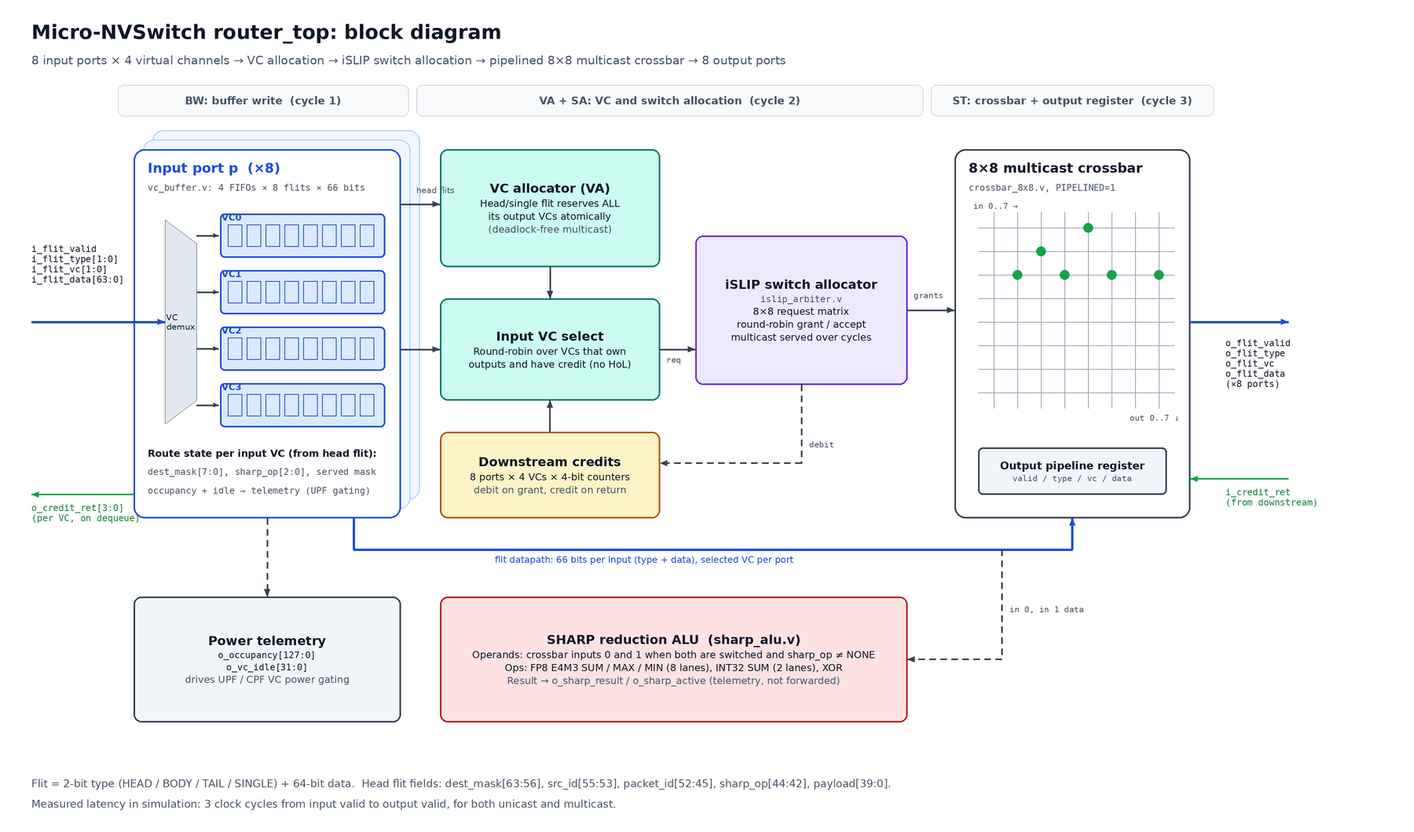
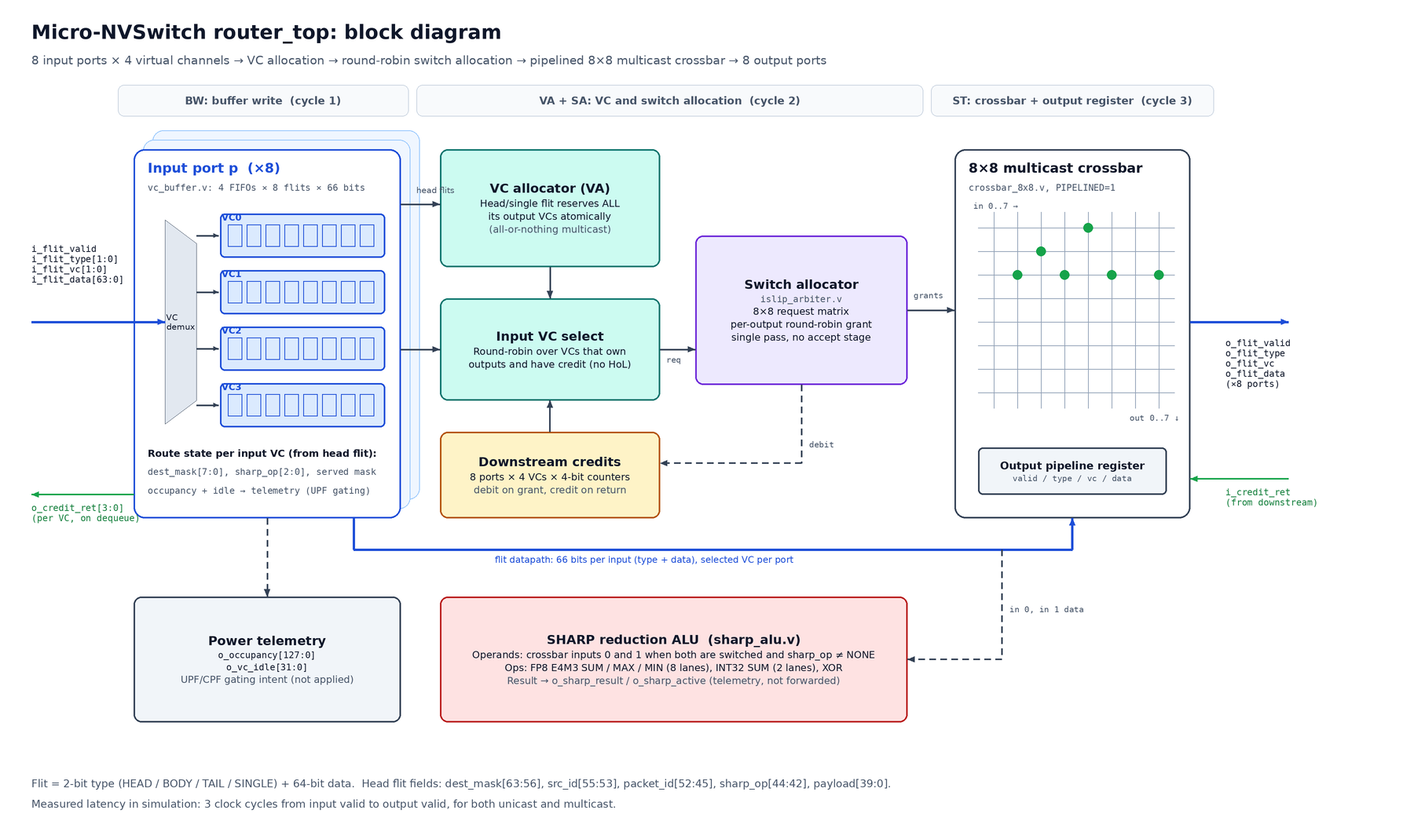
README: accuracy and writing audit
- Describe islip_arbiter.v as a single-pass output round-robin allocator
  (no accept stage), not full iSLIP
- State SHARP ALU scope: fixed ports 0/1, telemetry-only result,
  simplified E4M3 adder; note no test checks the numeric result
- Flag UPF control expression and VC0-only gating; UPF not applied
- Drop unsupported comparisons, badges and the GDSII claim in the title
- Add references (iSLIP, SHArP, FP8, ASAP7, RUDY, Dally/Towles) and
  NVIDIA trademark / non-affiliation note
- Fix diagram labels to match the RTL

diff --git a/README.md b/README.md
@@ -1,108 +1,103 @@
-# Micro-NVSwitch: 8x8 NoC Router ASIC with In-Network FP8 Reduction (Verilog RTL-to-GDSII Flow, ASAP7 7nm)
+# Micro-NVSwitch: 8x8 NoC Router with In-Network FP8 Reduction (Verilog RTL, ASAP7 7nm Layout)
 
-[![Release](https://img.shields.io/github/v/release/Srijit6/micro-nvswitch-noc-router)](https://github.com/Srijit6/micro-nvswitch-noc-router/releases)
-[![Tests](https://img.shields.io/badge/cocotb-14%2F14%20passing-brightgreen.svg)](#4-verification)
-[![Lint](https://img.shields.io/badge/Verilator%20lint-clean-blue.svg)](rtl/)
-[![PDK](https://img.shields.io/badge/PDK-ASAP7%207nm-purple.svg)](#6-physical-design)
+Micro-NVSwitch is an 8-port network-on-chip router written in Verilog and implemented on the ASAP7 7nm predictive PDK with Yosys, OpenROAD and OpenSTA. The design is loosely modelled on the role an NVSwitch plays in a GPU fabric. It routes unicast and multicast packets between eight ports, and it has a small reduction ALU that can combine the payloads of two packets as they cross the switch, in the spirit of Mellanox/NVIDIA SHARP [2].
 
-**Micro-NVSwitch is an open-source 8x8 network-on-chip (NoC) router, inspired by NVIDIA NVSwitch, written in synthesizable Verilog RTL and implemented on the ASAP7 7nm FinFET PDK with Yosys, OpenROAD and OpenSTA.** Unlike most academic NoC routers, it does more than move packets: a SHARP-style ALU reduces FP8 (E4M3) vectors inside the switch, the in-network All-Reduce used in GPU fabrics. It also has 4 virtual channels per port, credit-based flow control, iSLIP switch allocation and hardware multicast.
+The point of putting a reduction unit in a switch is that an All-Reduce then needs fewer trips through the network: partial sums are combined in the fabric instead of at every endpoint. This repository implements a one-switch, two-operand version of that idea. It is a study of the router microarchitecture and of what the open-source ASAP7 flow can do with it, not a model of a production NVSwitch.
 
-| | |
-|---|---|
-| **RTL** | Verilog-2001, 5 modules + package, Verilator lint-clean |
-| **Verification** | 14/14 cocotb tests (incl. random traffic with scoreboard), 6/6 Icarus testbench checks |
-| **Synthesis** | Yosys → ASAP7 RVT: 92,890 cells, 14,192 µm² |
-| **Physical design** | OpenROAD floorplan → placement → CTS → global route, 185.6 µm × 185.6 µm die |
-| **Sign-off** | OpenSTA at 2.5 ns: setup met (+74 ps), 142 mW. Hold, detailed routing and GDSII still open ([details](#limitations)) |
+| Stage | Status | Result |
+|---|---|---|
+| RTL | done | 5 modules + 1 package in `rtl/`, Verilator lint clean |
+| Simulation | done | 14/14 cocotb tests, 6/6 Icarus testbench checks |
+| Synthesis | done | Yosys 0.46 → ASAP7 RVT: 92,890 cells, 14,192 µm² |
+| Floorplan, placement, CTS, global route | done | OpenROAD, 185.6 µm × 185.6 µm die, 0 routing overflow |
+| Static timing and power | done, estimated parasitics | 2.5 ns clock: setup +74 ps, hold −15 ps (fails), 142 mW |
+| Detailed route, GDSII, DRC/LVS | scripted, not run | [Limitations](#limitations) |
 
----
+## Architecture
 
-## 1. Architecture
+![Block diagram of router_top. Each of 8 input ports has a VC demux and four 8-entry FIFOs. Head flits go to a VC allocator; an input VC selector, gated by downstream credit counters, builds an 8x8 request matrix for a round-robin switch allocator. Grants steer an 8x8 multicast crossbar with an output register. A SHARP ALU taps crossbar inputs 0 and 1 and drives telemetry outputs; VC occupancy and idle flags are exported as telemetry.](docs/images/architecture.png)
 
-![Block diagram of router_top: 8 input ports each with 4 VC FIFOs feed a VC allocator and input VC selector, which drive an iSLIP switch allocator; grants steer a pipelined 8x8 multicast crossbar to 8 output ports. Downstream credit counters gate requests, a SHARP ALU taps crossbar inputs 0 and 1, and VC occupancy feeds power telemetry.](docs/images/architecture.png)
+*Figure 1. `router_top` block diagram. A single-flit packet takes three cycles from `i_flit_valid` to `o_flit_valid`.*
 
-*Figure 1. `router_top` block diagram. A flit takes three cycles: buffer write, VC + switch allocation, then crossbar traversal into the output register.*
+All parameters come from `rtl/include/router_pkg.v`: 8 ports, 4 virtual channels (VCs) per port, 8-flit buffers and 64-bit flits. A flit carries a 2-bit type (HEAD, BODY, TAIL or SINGLE) alongside its data. The head flit holds an 8-bit destination mask in bits [63:56], so any subset of outputs can be addressed and multicast needs no separate packet format. It also holds the source port, an 8-bit packet ID and a 3-bit SHARP opcode.
 
-- **8 ports × 4 virtual channels:** each VC is an 8-flit FIFO of 66-bit flits (2-bit type + 64-bit data), so a blocked packet on one VC does not stall the others (no head-of-line blocking).
-- **Credit-based flow control:** 4-bit per-VC credit counters on every output. A flit is only sent when the downstream buffer has space, so nothing is dropped.
-- **Atomic multicast VC allocation:** a head flit reserves *all* of its destination output VCs in one cycle or none of them. This keeps multicast wormhole routing deadlock-free.
-- **iSLIP switch allocator:** round-robin request/grant/accept on an 8×8 request matrix. Multicast flits can be served over several cycles.
-- **SHARP reduction ALU:** element-wise FP8 SUM/MAX/MIN (8 lanes), INT32 SUM (2 lanes) and XOR on the flits switched from inputs 0 and 1.
-- **Power telemetry:** per-VC occupancy and idle flags drive the UPF 3.0 / CPF power-gating intent in `constraints/`.
+**Input buffering (`vc_buffer.v`).** The incoming flit is written to one of four FIFOs selected by `i_flit_vc`. Each entry stores 66 bits (type + data). When a flit leaves, the FIFO pulses its bit of `o_credit_ret`, which tells the upstream sender it may send one more flit on that VC.
 
-Full specification: [`docs/microarchitecture.md`](docs/microarchitecture.md).
+**VC allocation (`router_top.v`).** When a HEAD or SINGLE flit reaches the front of a FIFO, the allocator grants it only if every output VC named in its destination mask is free, and then locks all of them in the same cycle. That output VC stays locked until the packet's TAIL leaves, so packets on the same output VC never interleave. The all-or-nothing grant is meant to stop two multicast packets from each holding part of the other's destination set.
 
-## 2. Design Methodology
+**Switch allocation (`islip_arbiter.v`).** Each input offers one VC per cycle, chosen round-robin among VCs that own their output VCs and have at least one destination with a downstream credit. These offers form a 64-bit request matrix. Each output then grants one requesting input using its own round-robin pointer. Despite the file name, this is a single-pass output-side arbiter, not the full iSLIP algorithm [1]: there is no input accept stage, and one input can win several outputs in the same cycle. That is what lets a multicast flit reach all its destinations at once when they are free. Destinations that are not granted are tracked in a per-VC `served` mask and retried, and the flit is dequeued only after all of them have received it.
 
-![Flowchart: specification, RTL, Verilator lint, simulation, Yosys synthesis, then OpenROAD floorplan, placement, CTS, global routing and OpenSTA timing/power, each with its measured result. A red feedback loop shows the 800 ps target failing and being relaxed to 2.5 ns. Dashed boxes mark detailed routing, GDSII and the commercial flow as not yet run.](docs/images/design_flow.png)
+**Crossbar and credits (`crossbar_8x8.v`).** Grants select the source for each output mux, and `PIPELINED=1` adds an output register. The router keeps a 4-bit credit counter for each output VC. The counter is decremented when a flit is granted and incremented on `i_credit_ret`. A VC with no credit is excluded from the request matrix, so the router never sends a flit the downstream buffer cannot hold.
 
-*Figure 2. Flow from specification to sign-off, with the measured result of each step. Dashed steps are scripted but not yet run.*
+**Reduction ALU (`sharp_alu.v`).** If input port 0 carries a packet with a non-zero `sharp_op` and input port 1 is switching a flit in the same cycle, the ALU combines the two 64-bit payloads. It supports FP8 E4M3 [3] SUM, MAX and MIN on 8 lanes, INT32 SUM on 2 lanes, and XOR. The result appears on `o_sharp_result` and `o_sharp_active` one cycle later. It is not written back into a packet, and the fixed operand ports and the simplified FP8 adder are listed under [Limitations](#limitations).
 
-## 3. Quick Start
+**Telemetry and power intent.** `o_occupancy` and `o_vc_idle` export the fill level of each FIFO. `constraints/power.upf` (UPF) and `power.cpf` (CPF) describe one switchable power domain per input port. They are not used by the OpenROAD flow and have not been checked with power-aware simulation.
+
+## Design Flow
+
+![Flowchart from specification through RTL, Verilator lint, simulation, Yosys synthesis, OpenROAD floorplan, placement, CTS and global routing, to OpenSTA timing and power, each annotated with its result. A red loop shows the 800 ps clock target failing and being relaxed to 2.5 ns. Dashed boxes show detailed routing, GDSII, extracted-parasitic STA and the commercial flow as not yet run.](docs/images/design_flow.png)
+
+*Figure 2. Flow used in this repository. Dashed steps have scripts but no results yet.*
 
 ```bash
-make lint      # Verilator lint
-make sim       # Icarus Verilog self-checking testbench
-make cocotb    # cocotb regression (14 tests)
-make test      # sim + cocotb
+make lint      # Verilator --lint-only -Wall
+make sim       # Icarus Verilog testbench, dv/common/tb_router_top.v
+make cocotb    # cocotb suite, dv/cocotb/tests/
 ```
 
-The ASAP7 flow runs in the `ghcr.io/efabless/openlane2:2.3.10` container, so the host only needs Docker and the ASAP7 platform files:
+The ASAP7 flow runs inside the `ghcr.io/efabless/openlane2:2.3.10` container. It needs Docker and the ASAP7 platform directory from OpenROAD-flow-scripts, which `flow/run_flow.sh` expects at `~/pdks/orfs/flow/platforms/asap7` (override with `PLATFORM_HOST`):
 
 ```bash
 git clone --depth 1 --filter=blob:none --sparse \
     https://github.com/The-OpenROAD-Project/OpenROAD-flow-scripts.git ~/pdks/orfs
 git -C ~/pdks/orfs sparse-checkout set flow/platforms/asap7
 
-flow/run_flow.sh synth floorplan place cts groute sta-groute gui   # low-memory path
-flow/run_flow.sh route finish sta gui                              # needs more RAM
+flow/run_flow.sh synth floorplan place cts groute sta-groute   # results below
+flow/run_flow.sh route finish sta                              # detailed route onwards, not yet run to completion
 ```
 
-Each stage saves a checkpoint in `build/odb/`, so later stages can be rerun on their own. Set `PLATFORM_HOST` if ASAP7 lives elsewhere.
+Every stage writes a checkpoint to `build/odb/`, so a stage can be rerun without repeating the earlier ones. Scripts for Cadence Genus, Synopsys DC and Cadence Innovus are in `synth/` and `pnr/innovus/`. They have not been run.
 
-## 4. Verification
+## Verification
 
-| Suite | Tests | Result |
+The cocotb suite is the main regression. `test_router.py` covers reset and credit initialisation, unicast, multi-flit wormhole packets, multicast, head-of-line blocking across VCs, lossless backpressure and FP8 summation. `test_router_fixes.py` holds the regression tests for bugs fixed in the RTL: body flits staying with their own header, no interleaving on an output VC, partially granted multicast, multicast to a destination with zero credit, credit-counter overrun, the ALU firing only when both operands are present, and random traffic checked against a scoreboard. All 14 tests pass.
+
+The Icarus testbench (`make sim`) is a quick smoke test. Its six checks pass, but the SHARP check (TEST 5) counts as a pass even when the ALU never fires. The cocotb SHARP tests check that the ALU fires only when both operands are present, but no test yet compares `o_sharp_result` against expected FP8, INT32 or XOR values.
+
+![Waveform from the Icarus testbench. At 4.5 ns i_flit_valid is 01 with dest_mask 10; grant_valid is 10 at 6.5 ns; o_flit_valid bit 4 and packet_id A1 appear at 7.5 ns. At 14.5 ns i_flit_valid is 04 with dest_mask AA; grant_valid is AA at 16.5 ns; o_flit_valid bits 1, 3, 5 and 7 rise together at 17.5 ns with packet_id B2.](docs/images/waveform_unicast_multicast.png)
+
+*Figure 3. TEST 2 (port 0 → port 4) and TEST 3 (port 2 → ports 1, 3, 5, 7) from the testbench VCD. Both take three cycles, and the four multicast copies leave in the same cycle.*
+
+The test plan is in [`docs/verification_plan.md`](docs/verification_plan.md).
+
+## Synthesis
+
+`synth/yosys/scripts/synth_asap7.tcl` maps the design to the ASAP7 RVT typical-corner libraries with Yosys 0.46. `check` reports no problems.
+
+| Cell group | Count |
+|---|---:|
+| Flip-flops (`DFFASRHQNx1`) | 18,624 |
+| AO / OA / AOI / OAI complex gates | 34,108 |
+| AND / OR / NAND / NOR (+1 tie cell) | 26,462 |
+| Buffers and inverters | 12,768 |
+| XOR / XNOR / MAJ | 928 |
+| **Total** | **92,890** |
+
+Cell area is 14,192 µm², and 49.8% of it is sequential. The VC FIFOs are synthesised as flip-flops: 8 ports × 4 VCs × 8 entries × 66 bits is 16,896 of the 18,624 flip-flops, so buffer storage takes about half the cell area. The ORFS ASAP7 platform does include fakeram macros, which could replace these registers in a later revision. Full reports: [`synth_asap7_stat.rpt`](synth/yosys/reports/synth_asap7_stat.rpt), [`synth_asap7_check.rpt`](synth/yosys/reports/synth_asap7_check.rpt).
+
+## Physical Design
+
+Results are for ASAP7 RVT at the typical corner (0.70 V) with a 2.5 ns clock. Timing uses parasitics estimated from global routes, not extracted from wires, so the numbers will move once detailed routing runs.
+
+| Metric | Value | Source |
 |---|---|---|
-| cocotb (`dv/cocotb/tests/test_router.py`) | reset/credits, unicast, multi-flit wormhole, multicast, HoL avoidance, lossless backpressure, SHARP FP8 sum | 7/7 pass |
-| cocotb (`dv/cocotb/tests/test_router_fixes.py`) | body flits follow own header, no output-VC interleave, partial multicast grant, zero-credit multicast, no credit overrun, SHARP needs both operands, random traffic with scoreboard | 7/7 pass |
-| Icarus Verilog (`dv/common/tb_router_top.v`) | reset, unicast, multicast, HoL, SHARP, credits | 6/6 pass |
-
-![Waveform from the Icarus testbench. Unicast: i_flit_valid=01 with dest_mask 10 at 4.5 ns; grant_valid=10 at 6.5 ns; o_flit_valid[4] and packet_id A1 at 7.5 ns. Multicast: i_flit_valid=04 with dest_mask AA at 14.5 ns; grant_valid=AA; o_flit_valid bits 1, 3, 5 and 7 rise together at 17.5 ns with packet_id B2.](docs/images/waveform_unicast_multicast.png)
-
-*Figure 3. Simulation waveform for TEST 2 (unicast port 0 → port 4) and TEST 3 (multicast port 2 → ports 1, 3, 5, 7). Both reach the outputs 3 cycles after injection, and the multicast copies leave in the same cycle. Rendered from the regression VCD.*
-
-Test plan: [`docs/verification_plan.md`](docs/verification_plan.md).
-
-## 5. Synthesis
-
-Yosys 0.46 maps the RTL to the ASAP7 RVT library (`synth/yosys/scripts/synth_asap7.tcl`). `check` reports 0 problems.
-
-| Cell group | Count | Notes |
-|---|---:|---|
-| Flip-flops (`DFFASRHQNx1`) | 18,624 | 16,896 of them are VC buffer storage (8 ports × 4 VCs × 8 entries × 66 bits) |
-| AND-OR / OR-AND complex gates (AO, OA, AOI, OAI) | 34,108 | mostly FIFO read muxes and crossbar selection |
-| NAND / NOR / AND / OR (+1 tie cell) | 26,462 | |
-| Buffers / inverters | 12,768 | |
-| XOR / XNOR / MAJ | 928 | SHARP ALU arithmetic |
-| **Total** | **92,890** | **14,192 µm² cell area, 49.8% sequential** |
-
-The FIFOs are built from flip-flops rather than SRAM macros, so half the area is storage. Reports: [`synth_asap7_stat.rpt`](synth/yosys/reports/synth_asap7_stat.rpt) and [`synth_asap7_check.rpt`](synth/yosys/reports/synth_asap7_check.rpt). A technology-independent run (`make synth TOOL=yosys`) gives 73,159 generic gates with 18,670 flip-flops.
-
-## 6. Physical Design
-
-ASAP7 RVT, typical corner (0.70 V), 2.5 ns clock. Timing and power come from OpenSTA with parasitics estimated from global routes.
-
-| Metric | Value |
-|---|---|
-| Setup WNS / TNS | **+74 ps / 0 ps** (met, Fmax ≈ 412 MHz) |
-| Hold WNS / TNS | **−15 ps / −3,057 ps** (not met, input-port paths) |
-| Standard cells (excl. tap/fill) | 115,201 |
-| Cell area / utilization | 16,531 µm² / 52.5% |
-| Clock tree | 2,350 clock buffers, 82.8 ps setup skew |
-| Hold buffers | 6,451 |
-| Global routing | 114,115 nets, 813,577 µm, 0 overflow |
-| Power | 142 mW (80% combinational, 14% sequential, 6% clock) |
+| Setup WNS / TNS | +74 ps / 0 ps (≈412 MHz) | `signoff/sta/reports/summary.rpt` |
+| Hold WNS / TNS | −15 ps / −3,057 ps | `signoff/sta/reports/summary.rpt` |
+| Cell area / utilization | 16,531 µm² / 52.5% | `pnr/openroad/reports/4_groute_summary.rpt` |
+| Standard cells (excl. tap) | 115,201, of which 6,451 hold buffers | post-CTS database (`build/odb/3_cts.odb`, regenerated by the flow, not committed) |
+| Clock tree | 2,350 buffers, 18,624 sinks, 82.8 ps setup skew | `pnr/openroad/reports/cts.rpt`, `signoff/sta/reports/clock_skew.rpt` |
+| Global routing | 114,115 nets, 813,577 µm, 21.95% usage, 0 overflow | `groute` stage log (`build/logs/5_groute.log`, not committed) |
+| Total power | 142 mW (80% combinational, 14% sequential, 6% clock) | `signoff/sta/reports/power.rpt` |
 
 | Stage | Setup WNS | Hold WNS | Utilization |
 |---|---|---|---|
@@ -110,48 +105,57 @@ ASAP7 RVT, typical corner (0.70 V), 2.5 ns clock. Timing and power come from Ope
 | CTS + hold repair | +125 ps | +4.7 ps | 52.8% |
 | Global route | +51 ps | −15 ps | 52.5% |
 
-![Post-CTS placement of the 185.6 µm die with cells colored by function: flip-flops (blue) fill the outer region, combinational logic (grey) is concentrated in the centre, hold-fix buffers (orange) cluster along the left, top and bottom edges, and clock buffers (red) are spread evenly.](docs/images/pd_placement_cts.png)
+The worst setup path starts at a flip-flop, goes through the input VC selection logic into `req_matrix`, then through the switch allocator (`granted_out_mask`) and the crossbar input mux to a flip-flop. VC selection, switch allocation and crossbar selection all happen in one cycle. That is why the original 800 ps target failed by 1.6 ns.
 
-*Figure 4. Placement after CTS, coloured by cell function. VC-buffer flip-flops fill the outside and the allocator/crossbar logic sits in the centre. Hold buffers bunch up near the I/O edges, which is where the remaining hold violations are.*
+![Post-CTS placement of the 185.6 µm die, cells coloured by function: flip-flops in blue across most of the die, combinational logic in grey concentrated in a central block, hold-fix buffers in orange along the left, top and bottom edges, clock buffers in red spread evenly.](docs/images/pd_placement_cts.png)
 
-![RUDY routing-demand heat map of the die after CTS: mostly blue (low) with a green/yellow region over the central logic and a yellow hotspot at the bottom-edge pins.](docs/images/pd_congestion_rudy.png)
+*Figure 4. Placement after CTS, coloured by cell type (synthesis flattened the hierarchy, so cells cannot be coloured by module). Flip-flops cover most of the die, and combinational logic is concentrated in the centre. Hold buffers sit along the die edges near the I/O pins, which fits with the worst hold paths starting at input ports.*
 
-*Figure 5. Estimated routing demand (RUDY). Global routing finished with 0 overflow. Demand is highest over the central logic and the bottom-edge pins.*
+![RUDY routing-demand heat map of the die after CTS: mostly low demand, higher demand over the central logic block and a hotspot at the bottom edge.](docs/images/pd_congestion_rudy.png)
 
-![OpenROAD clock-tree view: one root branching through several buffer levels to 18,624 sinks, with sink insertion delays between about 116 and 147 ps.](docs/images/pd_clock_tree.png)
+*Figure 5. Estimated routing demand (RUDY [5]) after CTS. Demand is highest over the central logic and at the bottom-edge pins. Global routing finished with no overflow.*
+
+![OpenROAD clock-tree view with insertion delay on the vertical axis: a single root fans out through buffer levels to 18,624 sinks whose arrival times lie between about 116 and 147 ps.](docs/images/pd_clock_tree.png)
 
 *Figure 6. Clock tree after CTS, plotted by insertion delay.*
 
-**Critical path:** VC state flops → VC eligibility → `req_matrix` → iSLIP grant → crossbar input mux → output register. VC selection, switch allocation and the crossbar all happen in one cycle, which is why the 800 ps target missed by 1.6 ns.
-
-Reports: [`signoff/sta/reports/`](signoff/sta/reports/) (setup, hold, DRV, skew, power) and [`pnr/openroad/reports/`](pnr/openroad/reports/) (per-stage summaries, congestion, CTS).
-
 ### Limitations
 
-- **1.25 GHz is not met.** At 800 ps the post-placement setup WNS was −1,604 ps. The open flow uses a 2.5 ns clock (`constraints/router_openroad.sdc`). Reaching 1.25 GHz needs a pipeline register between switch allocation and the crossbar. `constraints/router.sdc` keeps the 800 ps target.
-- **No detailed routing or GDSII yet.** Detailed routing ran out of memory on a 3.7 GB WSL host. The `route` and `finish` stages are scripted and resume from the CTS checkpoint.
-- **Hold is open after global routing.** The 50 ps minimum input delay is shorter than the 240–280 ps clock insertion delay. A larger input delay or a post-route hold-repair pass should close it.
-- **SPEF workaround.** OpenROAD writes `*DELIMITER :` but names pins `inst/pin`, so OpenSTA silently drops the parasitics. `flow/fix_spef_delimiter.py` rewrites the file.
-- **Commercial flow not run.** Genus, Design Compiler and Innovus scripts are included but untested (no licences).
+- **Clock target.** At 800 ps (`constraints/router.sdc`) the post-placement setup WNS was −1,604 ps, so the open flow uses 2.5 ns (`constraints/router_openroad.sdc`). Reaching the original target would need a register between switch allocation and the crossbar, which adds a cycle of latency.
+- **No detailed routing or GDSII.** TritonRoute ran out of memory on a 3.7 GB WSL host. The `route` and `finish` stages are scripted and start from the CTS checkpoint.
+- **Hold.** All ten paths in `signoff/sta/reports/hold.rpt` (the worst violators) start at input ports. The SDC sets a 50 ps minimum input delay against a clock insertion delay of roughly 240–280 ps. The input-delay constraint needs to be confirmed against the real environment, or hold must be repaired after routing.
+- **SPEF delimiter.** OpenROAD writes `*DELIMITER :` but names pins `inst/pin`, and OpenSTA then drops the parasitics without an error. `flow/fix_spef_delimiter.py` rewrites the file in the `groute` stage.
+- **Reduction ALU scope.** Operands are fixed to input ports 0 and 1, and the result is only visible on telemetry ports. The whole 64-bit flit is reduced, so on a SINGLE flit the header bits are reduced too. The FP8 adder truncates instead of rounding and does not renormalise after cancellation. Its overflow value, `0x7F`/`0xFF`, is NaN in E4M3, not the largest finite value.
+- **Power intent.** Each port's UPF power switch is controlled only by `o_vc_idle` of VC0, so it could gate a port while VCs 1 to 3 still hold flits. The control expression `o_vc_idle[p*4]` is also inside braces, so Tcl will not substitute `p`. The UPF has not been run through any tool.
 
-## 7. Repository Structure
+## Repository Layout
 
 ```
-micro-nvswitch-noc-router/
-├── rtl/            Verilog RTL: router_pkg.v, vc_buffer, islip_arbiter, crossbar_8x8, sharp_alu, router_top
-├── dv/             Icarus testbench (common/) and cocotb suite (cocotb/)
-├── constraints/    SDC (800 ps and 2.5 ns), UPF 3.0, CPF
-├── synth/          Yosys (generic + ASAP7), Genus and DC scripts, synthesis reports
-├── pnr/            OpenROAD staged flow + reports, Innovus script
-├── signoff/sta/    OpenSTA sign-off script and reports
-├── flow/           run_flow.sh container driver, ASAP7 settings, SPEF fix
-└── docs/           Microarchitecture, verification plan, PD guide, figures
+rtl/            router_pkg.v, vc_buffer.v, islip_arbiter.v, crossbar_8x8.v, sharp_alu.v, router_top.v
+dv/             common/tb_router_top.v (Icarus), cocotb/ (cocotb suite)
+constraints/    router.sdc (800 ps), router_openroad.sdc (2.5 ns), power.upf, power.cpf
+synth/          Yosys scripts and reports; Genus and DC scripts
+pnr/            OpenROAD stage scripts and reports; Innovus script
+signoff/sta/    OpenSTA script and reports
+flow/           run_flow.sh, asap7_env.sh, fix_spef_delimiter.py
+docs/           microarchitecture.md, verification_plan.md, physical_design_guide.md, images/
 ```
 
-## 8. Releases
+## Releases
 
 | Version | Date | Contents |
 |---|---|---|
-| [v0.1.0](https://github.com/Srijit6/micro-nvswitch-noc-router/releases/tag/v0.1.0) | 2026-11-08 | Verified RTL (14/14 cocotb), ASAP7 synthesis, OpenROAD placement, CTS and global routing, OpenSTA sign-off at 2.5 ns |
+| [v0.1.0](https://github.com/Srijit6/micro-nvswitch-noc-router/releases/tag/v0.1.0) | 2026-11-08 | RTL passing 14/14 cocotb tests, ASAP7 synthesis, OpenROAD through global routing, OpenSTA at 2.5 ns |
 
-Planned for v1.0.0: detailed routing, GDSII with DRC/LVS, hold closure, and a pipelined allocator to target 1.25 GHz.
+Planned for v1.0.0: detailed routing, GDSII with DRC/LVS, hold closure, and a pipelined switch allocator.
+
+## References and Tools
+
+1. N. McKeown, "The iSLIP scheduling algorithm for input-queued switches," *IEEE/ACM Trans. Networking*, vol. 7, no. 2, pp. 188–201, 1999.
+2. R. L. Graham et al., "Scalable Hierarchical Aggregation Protocol (SHArP): A Hardware Architecture for Efficient Data Reduction," *Proc. COMHPC Workshop*, 2016. SHARP and NVSwitch are trademarks of NVIDIA. This project is not affiliated with NVIDIA.
+3. P. Micikevicius et al., "FP8 Formats for Deep Learning," arXiv:2209.05433, 2022.
+4. L. T. Clark et al., "ASAP7: A 7-nm finFET predictive process design kit," *Microelectronics Journal*, vol. 53, pp. 105–115, 2016. The ASAP7 platform files are downloaded from OpenROAD-flow-scripts and are not redistributed here.
+5. P. Spindler and F. M. Johannes, "Fast and accurate routing demand estimation for efficient routability-driven placement," *Proc. DATE*, 2007.
+6. W. J. Dally and B. Towles, *Principles and Practices of Interconnection Networks*, Morgan Kaufmann, 2004. Background for virtual channels, credit-based flow control and wormhole switching.
+
+Tools: [Yosys](https://github.com/YosysHQ/yosys), [OpenROAD](https://github.com/The-OpenROAD-Project/OpenROAD), [OpenSTA](https://github.com/parallaxsw/OpenSTA), [Verilator](https://github.com/verilator/verilator), [Icarus Verilog](https://github.com/steveicarus/iverilog), [cocotb](https://github.com/cocotb/cocotb), and the [OpenLane 2](https://github.com/efabless/openlane2) container. All figures were generated from this repository's own simulation and layout data.
